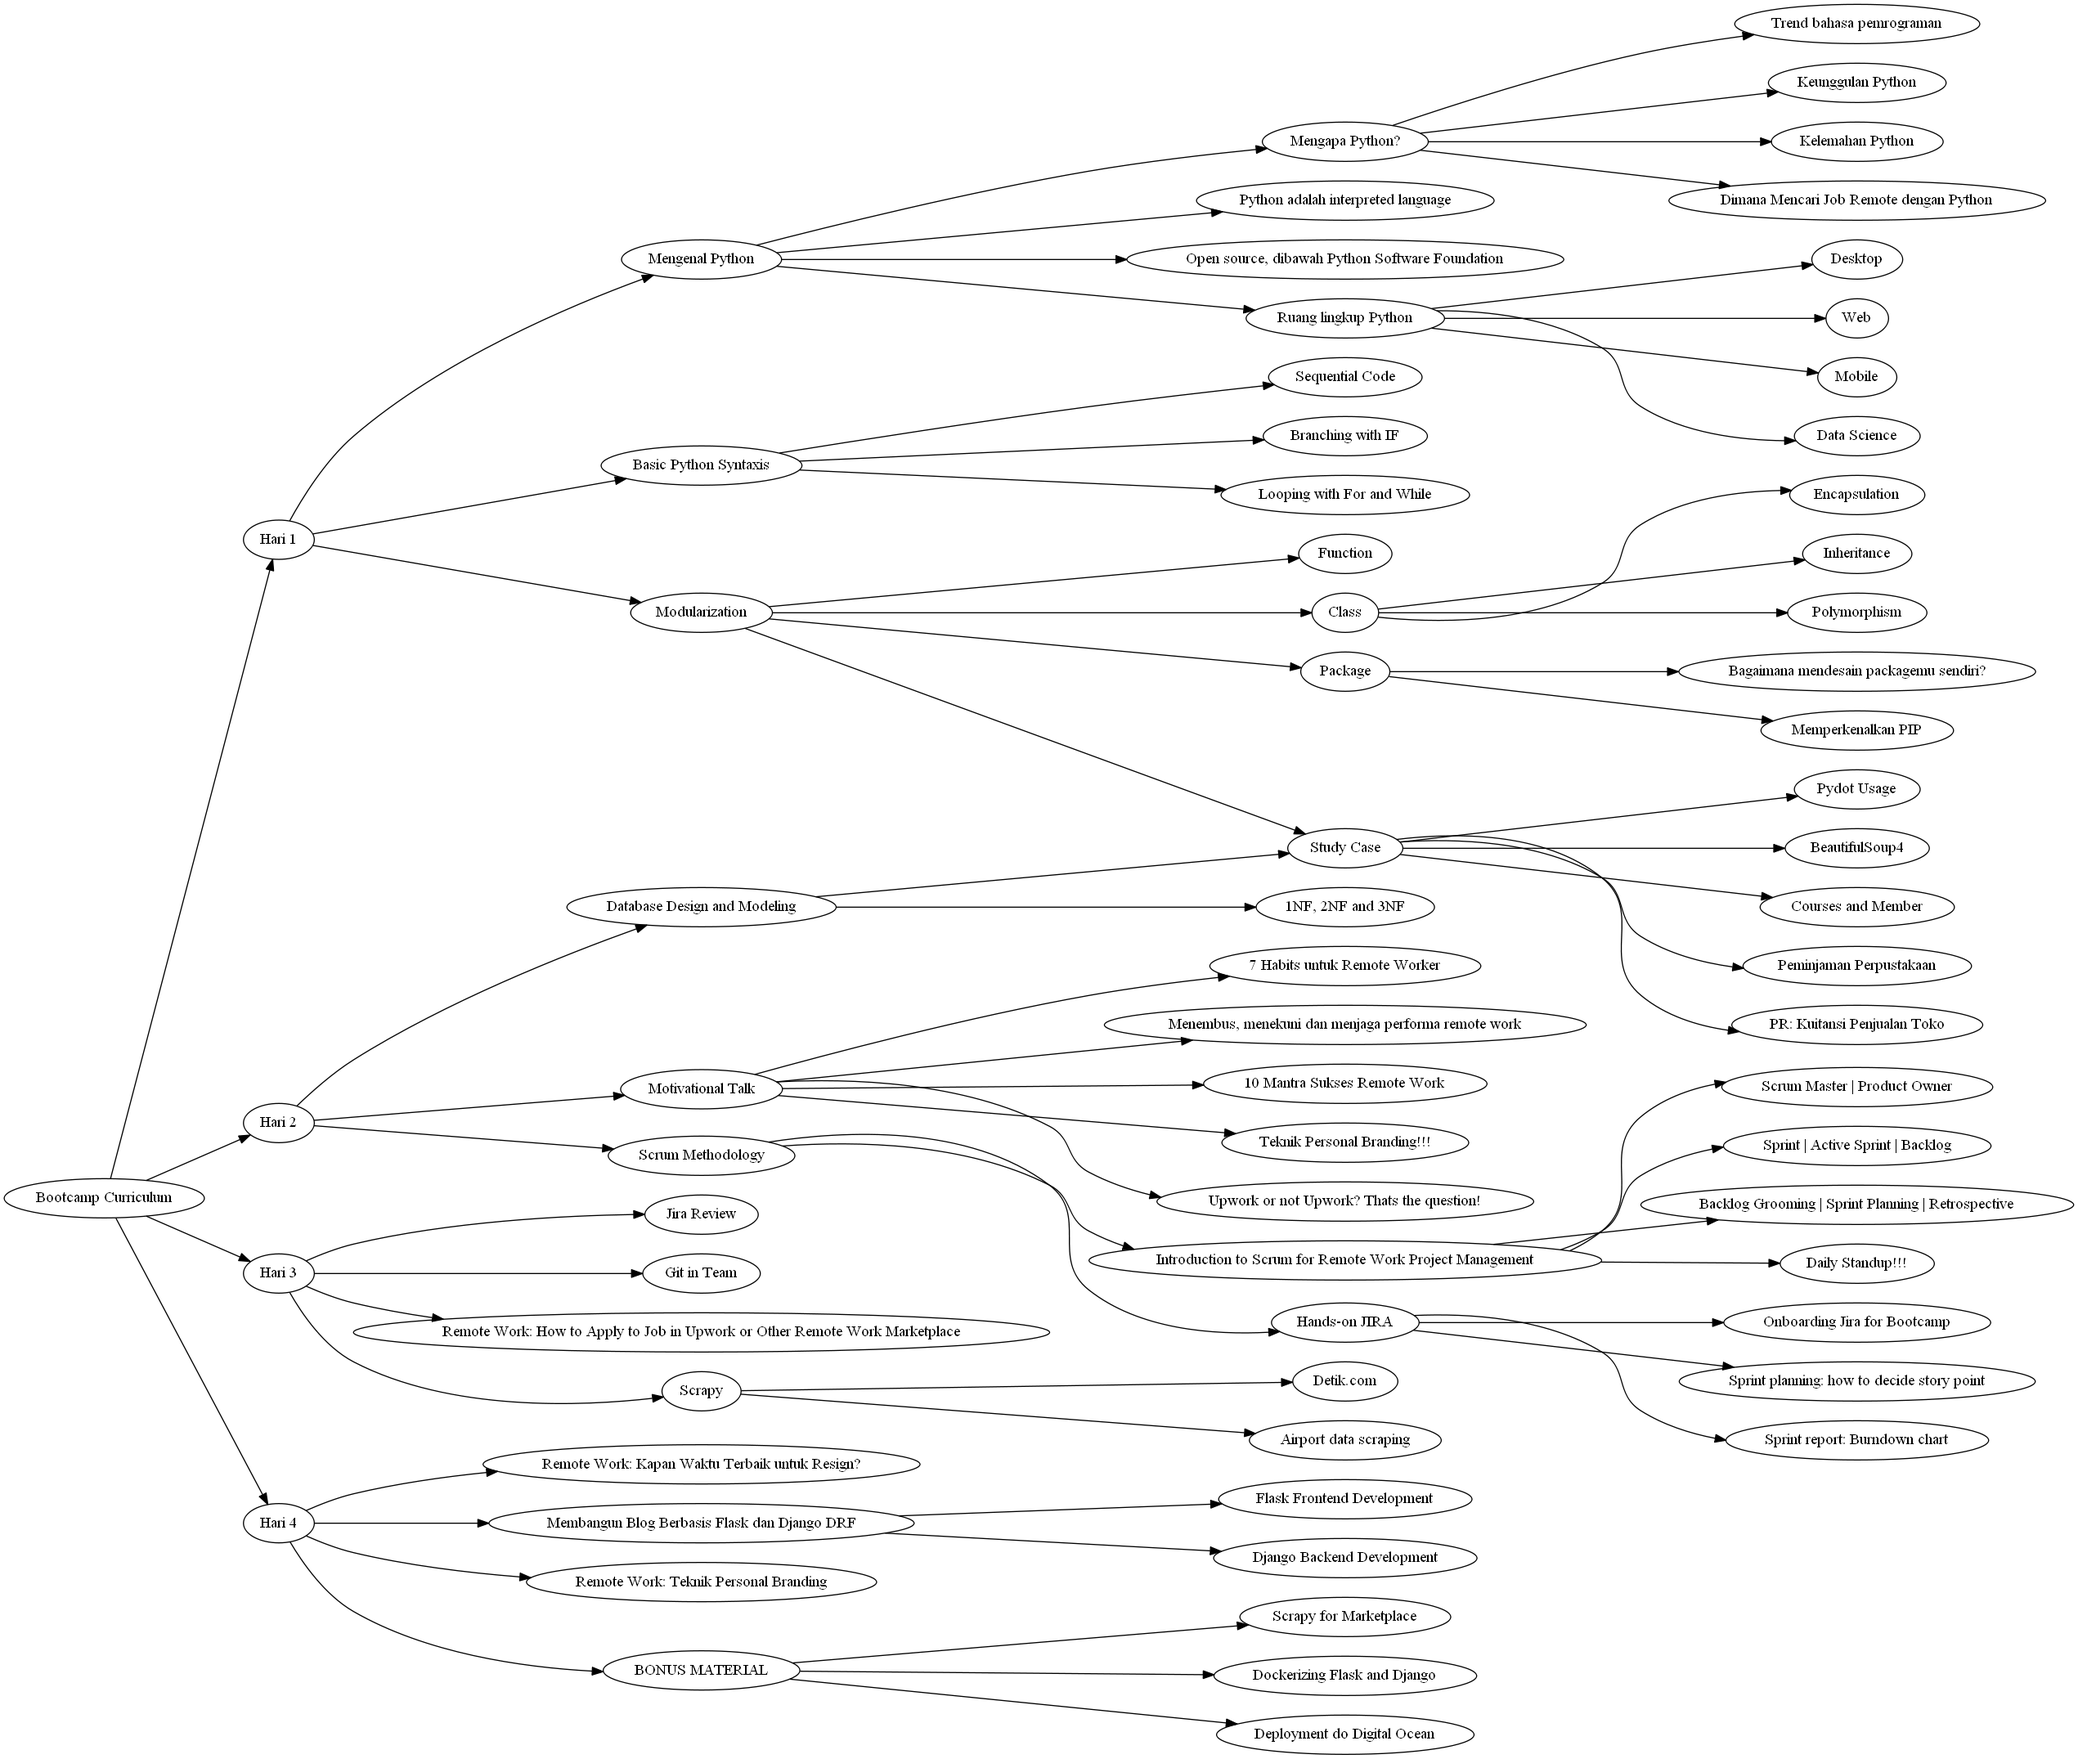
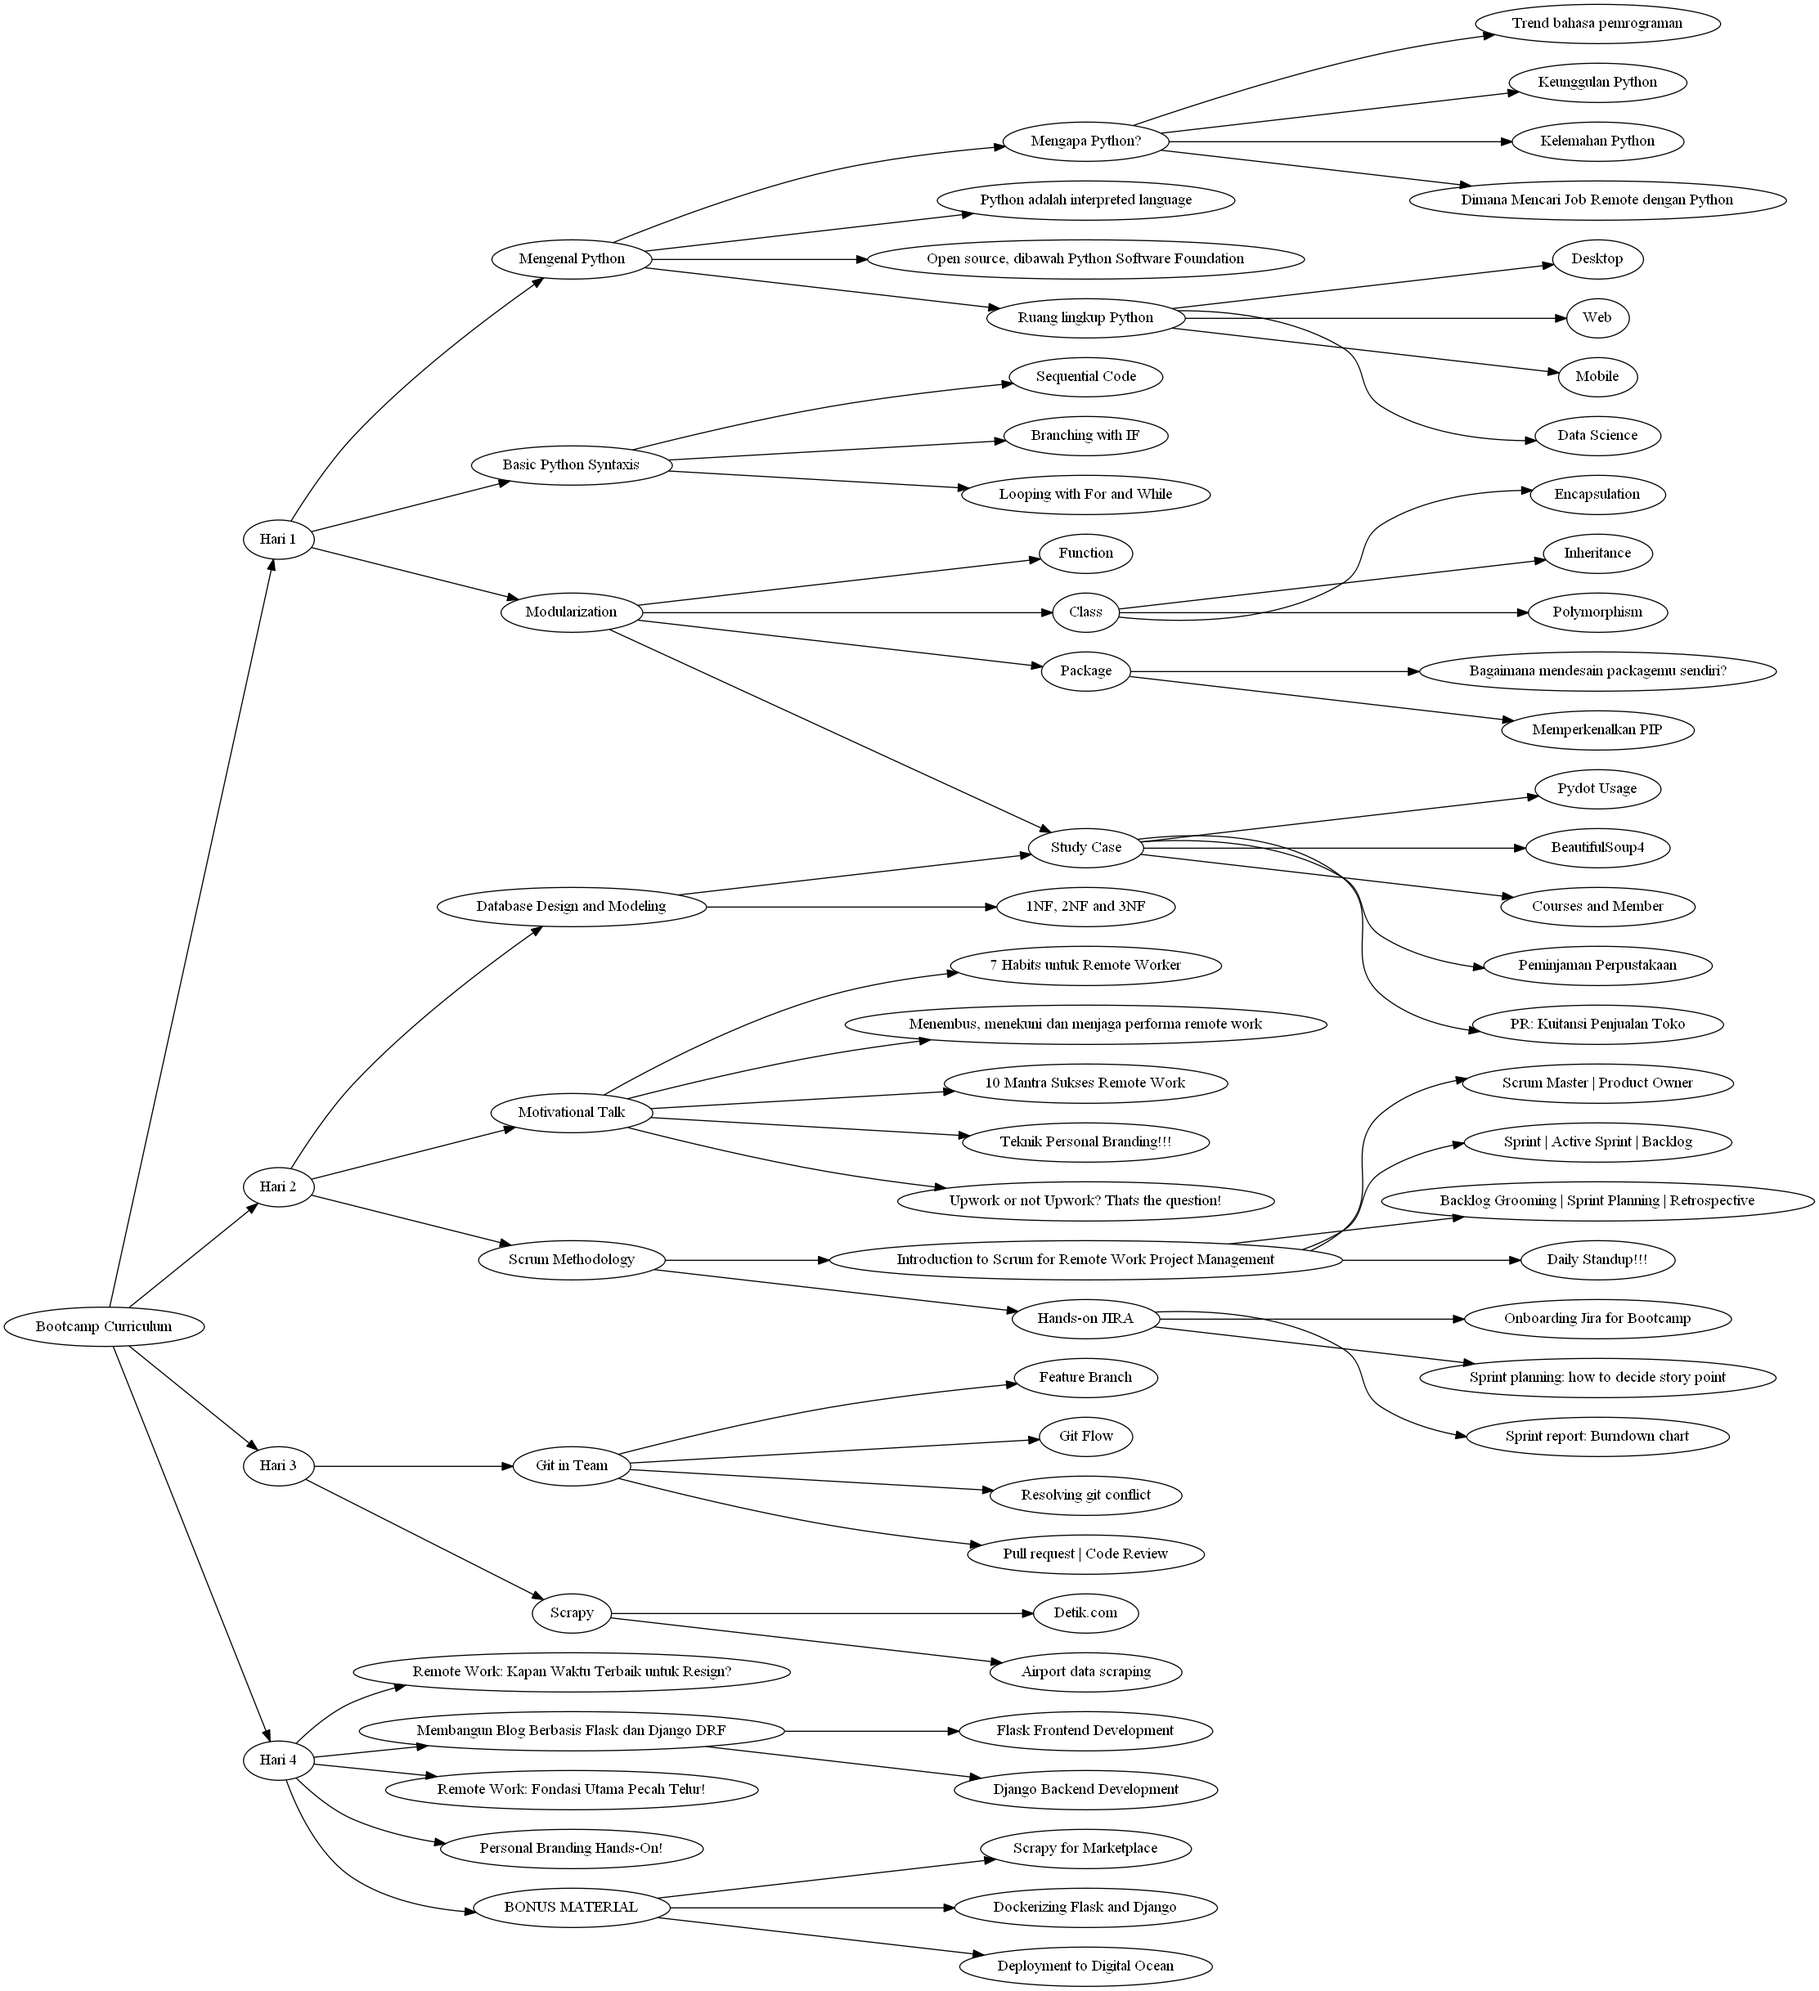
semua kurikulum: hari 1-4

diff --git a/curriculum.py b/curriculum.py
@@ -48,9 +48,12 @@ hari2 = [{
 }]
 
 hari3 = [{
-    'Jira Review': [],
-    'Git in Team': [],
-    'Remote Work: How to Apply to Job in Upwork or Other Remote Work Marketplace': [],
+    'Git in Team': [
+        {'Feature Branch': []},
+        {'Git Flow': []},
+        {'Resolving git conflict': []},
+        {'Pull request | Code Review': []},
+    ],
     'Scrapy': [{'Detik.com': []}, {'Airport data scraping': []}],
 }]
 
@@ -58,9 +61,10 @@ hari4 = [{
     'Remote Work: Kapan Waktu Terbaik untuk Resign?': [],
     'Membangun Blog Berbasis Flask dan Django DRF': [
         {'Flask Frontend Development': [], 'Django Backend Development': []}],
-    'Remote Work: Teknik Personal Branding': [],
+    'Remote Work: Fondasi Utama Pecah Telur!': [],
+    'Personal Branding Hands-On!': [],
     'BONUS MATERIAL': [{'Scrapy for Marketplace': []}, {'Dockerizing Flask and Django': []},
-                       {'Deployment do Digital Ocean': []}],
+                       {'Deployment to Digital Ocean': []}],
 }]
 
 curriculum = [{
